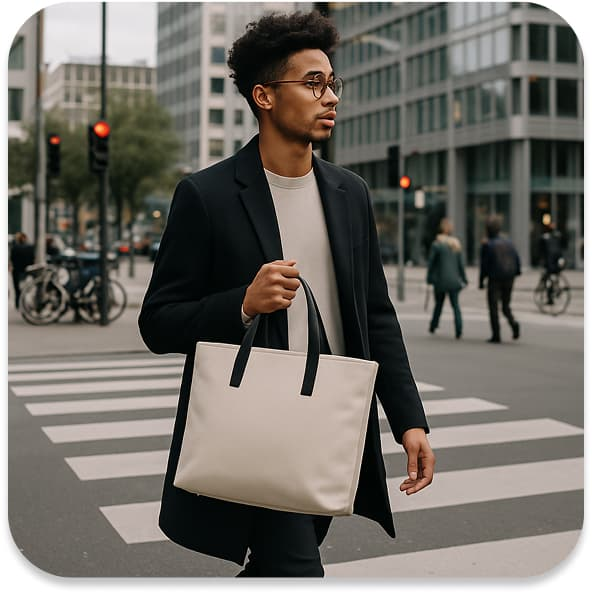
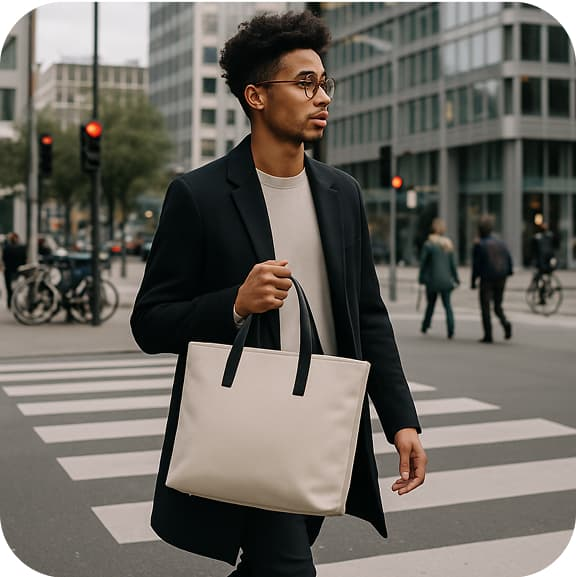
modified:   src/css/gallery.css 	modified:   src/images/Street-crossing-with-tote-mobile-2x.jpg 	modified:   src/images/Street-crossing-with-tote-mobile-3x.jpg 	modified:   src/images/Street-crossing-with-tote-mobile.jpg

diff --git a/src/css/gallery.css b/src/css/gallery.css
@@ -1,0 +1,122 @@
+.gallery {
+  display: flex;
+  padding: 32px 0;
+}
+
+.gallery .container {
+  max-width: 288px;
+  width: 100%;
+}
+
+.gallery .section-title {
+  margin-bottom: 16px;
+}
+
+.gallery .section-subtitle {
+  font-weight: 400;
+  font-size: 18px;
+  text-align: center;
+  margin-bottom: 32px;
+}
+
+.gallery-list {
+  display: flex;
+  flex-direction: column;
+  gap: 16px;
+}
+
+.gallery .gallery-item {
+  border-radius: 32px;
+}
+
+.gallery img {
+  border-radius: 32px;
+}
+
+/* Styles for Tablet devices */
+@media only screen and (min-width: 768px) {
+  .gallery {
+    padding: 64px 0;
+  }
+
+  .gallery .container {
+    max-width: 768px;
+    margin: 0 auto;
+    padding: 0;
+  }
+  .gallery .section-title {
+    margin-bottom: 24px;
+  }
+
+  .gallery-item {
+    max-width: 340px;
+    max-height: 700px;
+  }
+
+  .gallery-list img {
+    width: 340px;
+  }
+
+  .gallery-list {
+    display: grid;
+    grid-template-columns: repeat(2, 1fr); /* Створює дві однакові колонки */
+    grid-template-rows: repeat(3, 1fr); /* Формує три рівні рядки */
+    gap: 24px; /* Простір між елементами сітки */
+    margin: 0 32px;
+  }
+
+  .gallery-list .gallery-item:nth-child(4) {
+    grid-column-start: 1; /* Розміщується в першій колонці */
+    grid-row-start: 1; /* Починається з верхнього рядка */
+  }
+
+  .gallery-list .gallery-item:nth-child(2) {
+    grid-row: span 2 / span 2; /* Розтягується на два рядки вниз */
+    grid-column-start: 2; /* Стоїть у другій колонці */
+    grid-row-start: 1; /* Починає з першого рядка */
+  }
+
+  .gallery-list .gallery-item:nth-child(3) {
+    grid-row: span 2 / span 2; /* Теж займає дві клітинки по вертикалі */
+    grid-row-start: 2; /* Починається з другого рядка */
+  }
+
+  .gallery-list .gallery-item:nth-child(1) {
+    grid-column-start: 2; /* Знаходиться в правій колонці */
+    grid-row-start: 3; /* Розміщується у третьому рядку */
+  }
+}
+
+/* Styles for Desktop devices */
+@media only screen and (min-width: 1440px) {
+  .gallery .container {
+    max-width: 1440px;
+    padding: 0 64px;
+  }
+  .gallery .section-title {
+    font-size: 48px;
+  }
+
+  .gallery-item {
+    max-width: 421px;
+    max-height: 865px;
+  }
+
+  .gallery-list img {
+    width: 421px;
+  }
+
+  .gallery-list {
+    grid-template-columns: repeat(3, 1fr); /* Створює три однакові колонки */
+    grid-template-rows: repeat(2, 1fr);/* Формує два рівні рядки */
+    margin: 0;
+  }
+  .gallery-list .gallery-item:nth-child(3){
+    grid-column-start: 3; /* Стоїть у третій колонці */
+    grid-row-start: 1; /* Починає з першого рядка */
+  }
+  .gallery-list .gallery-item:nth-child(1){
+    grid-column-start: 1; /* Розміщується в першій колонці */
+    grid-row-start: 2; /* Починається з другого рядка */
+  }
+}
